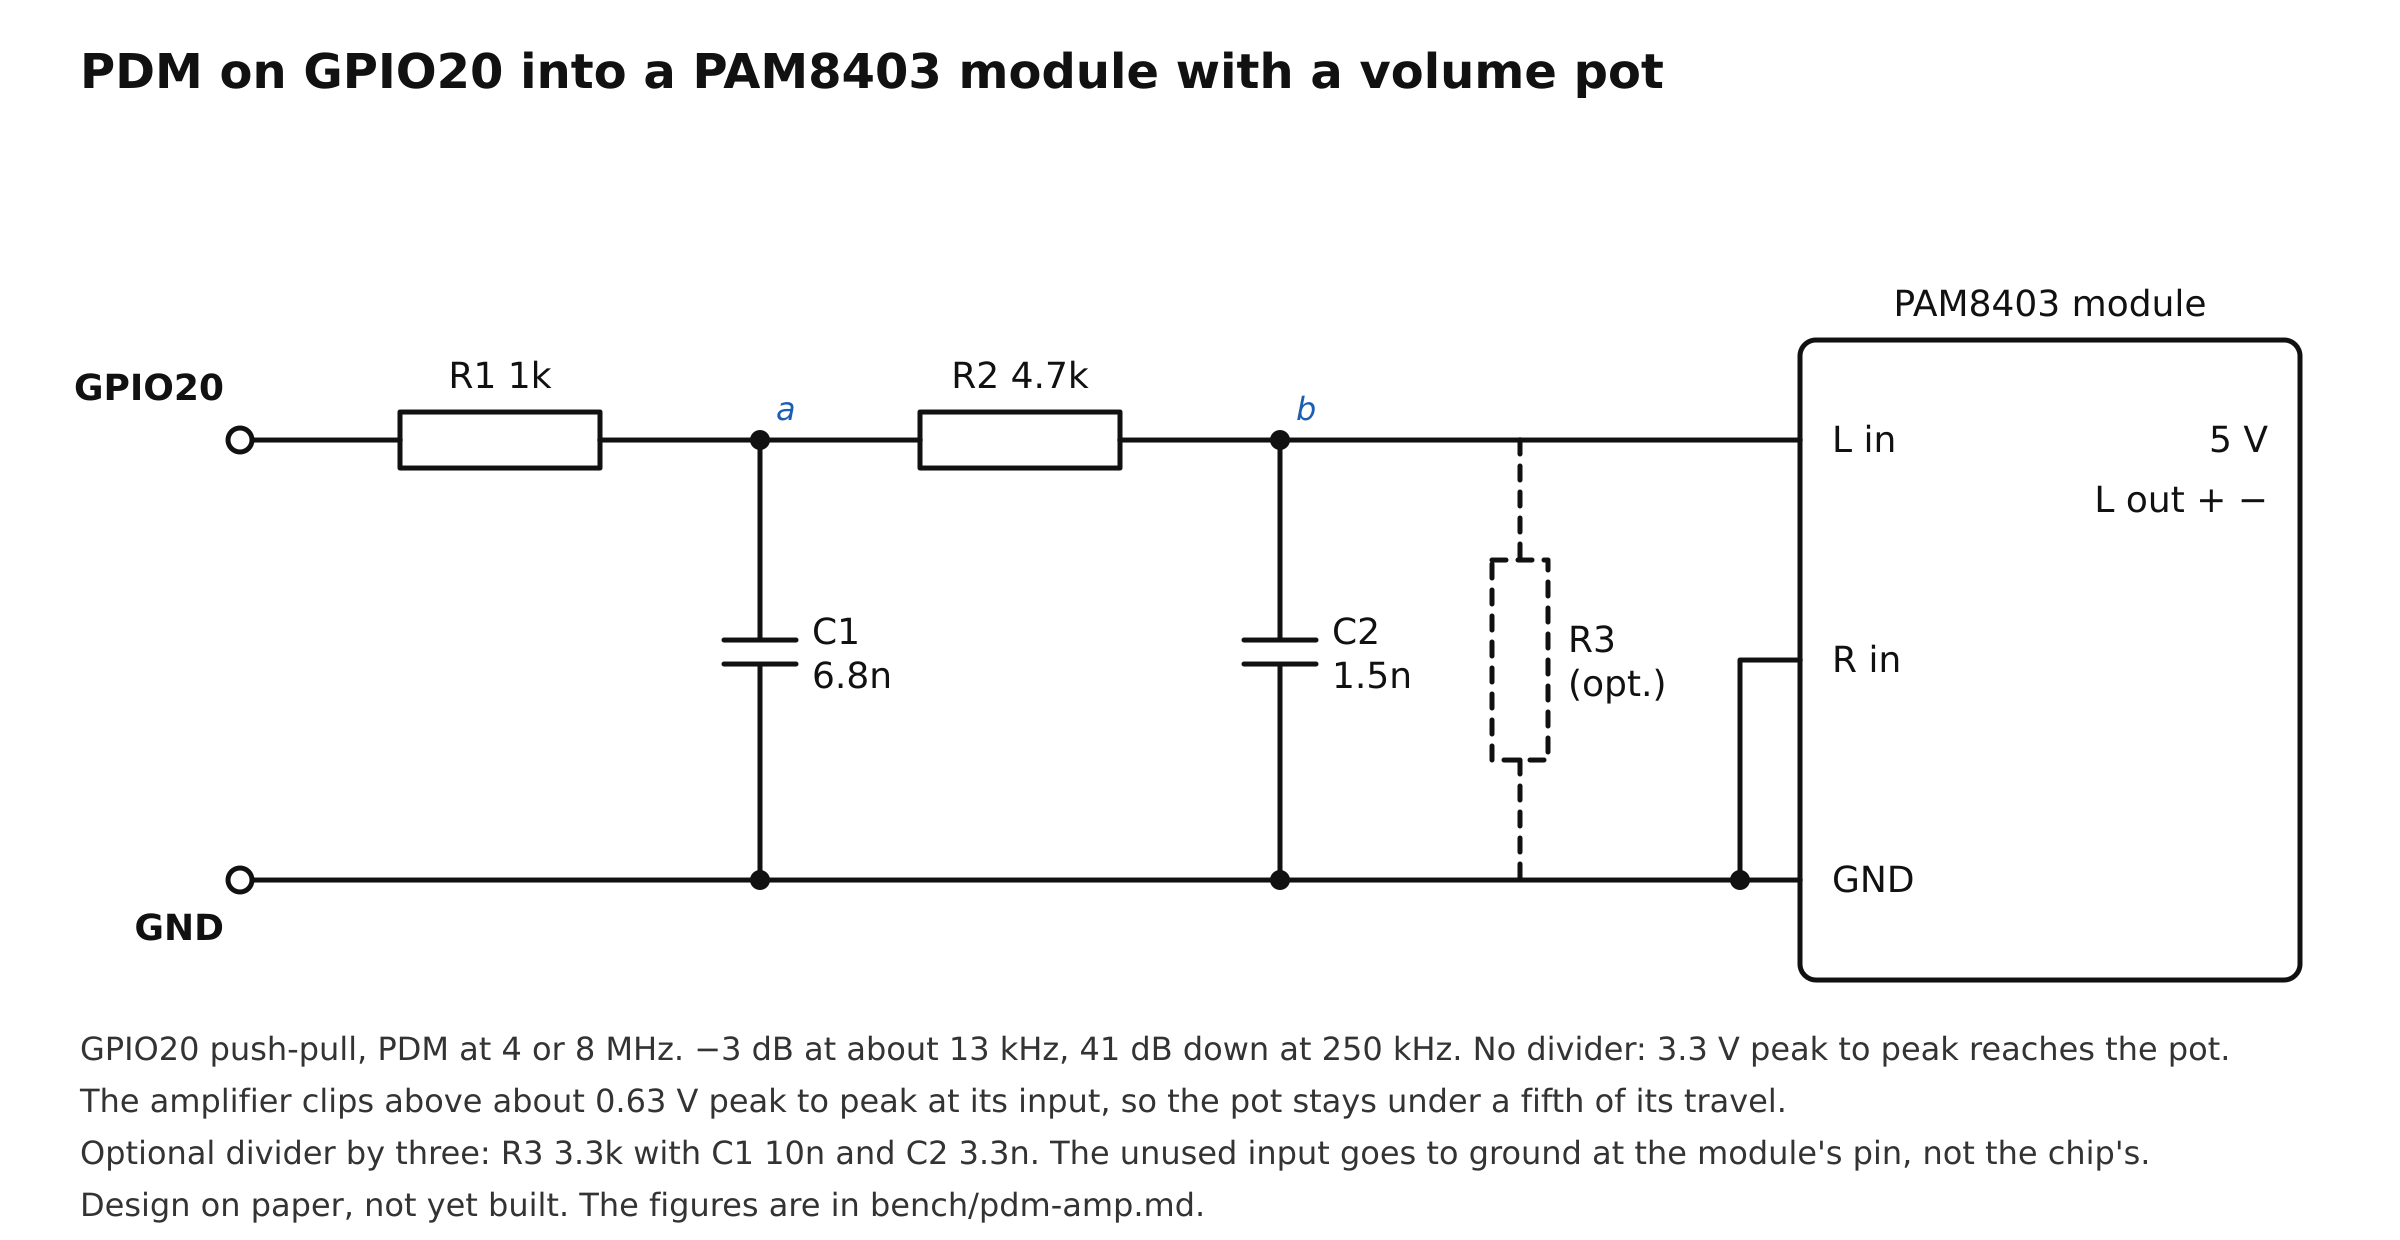
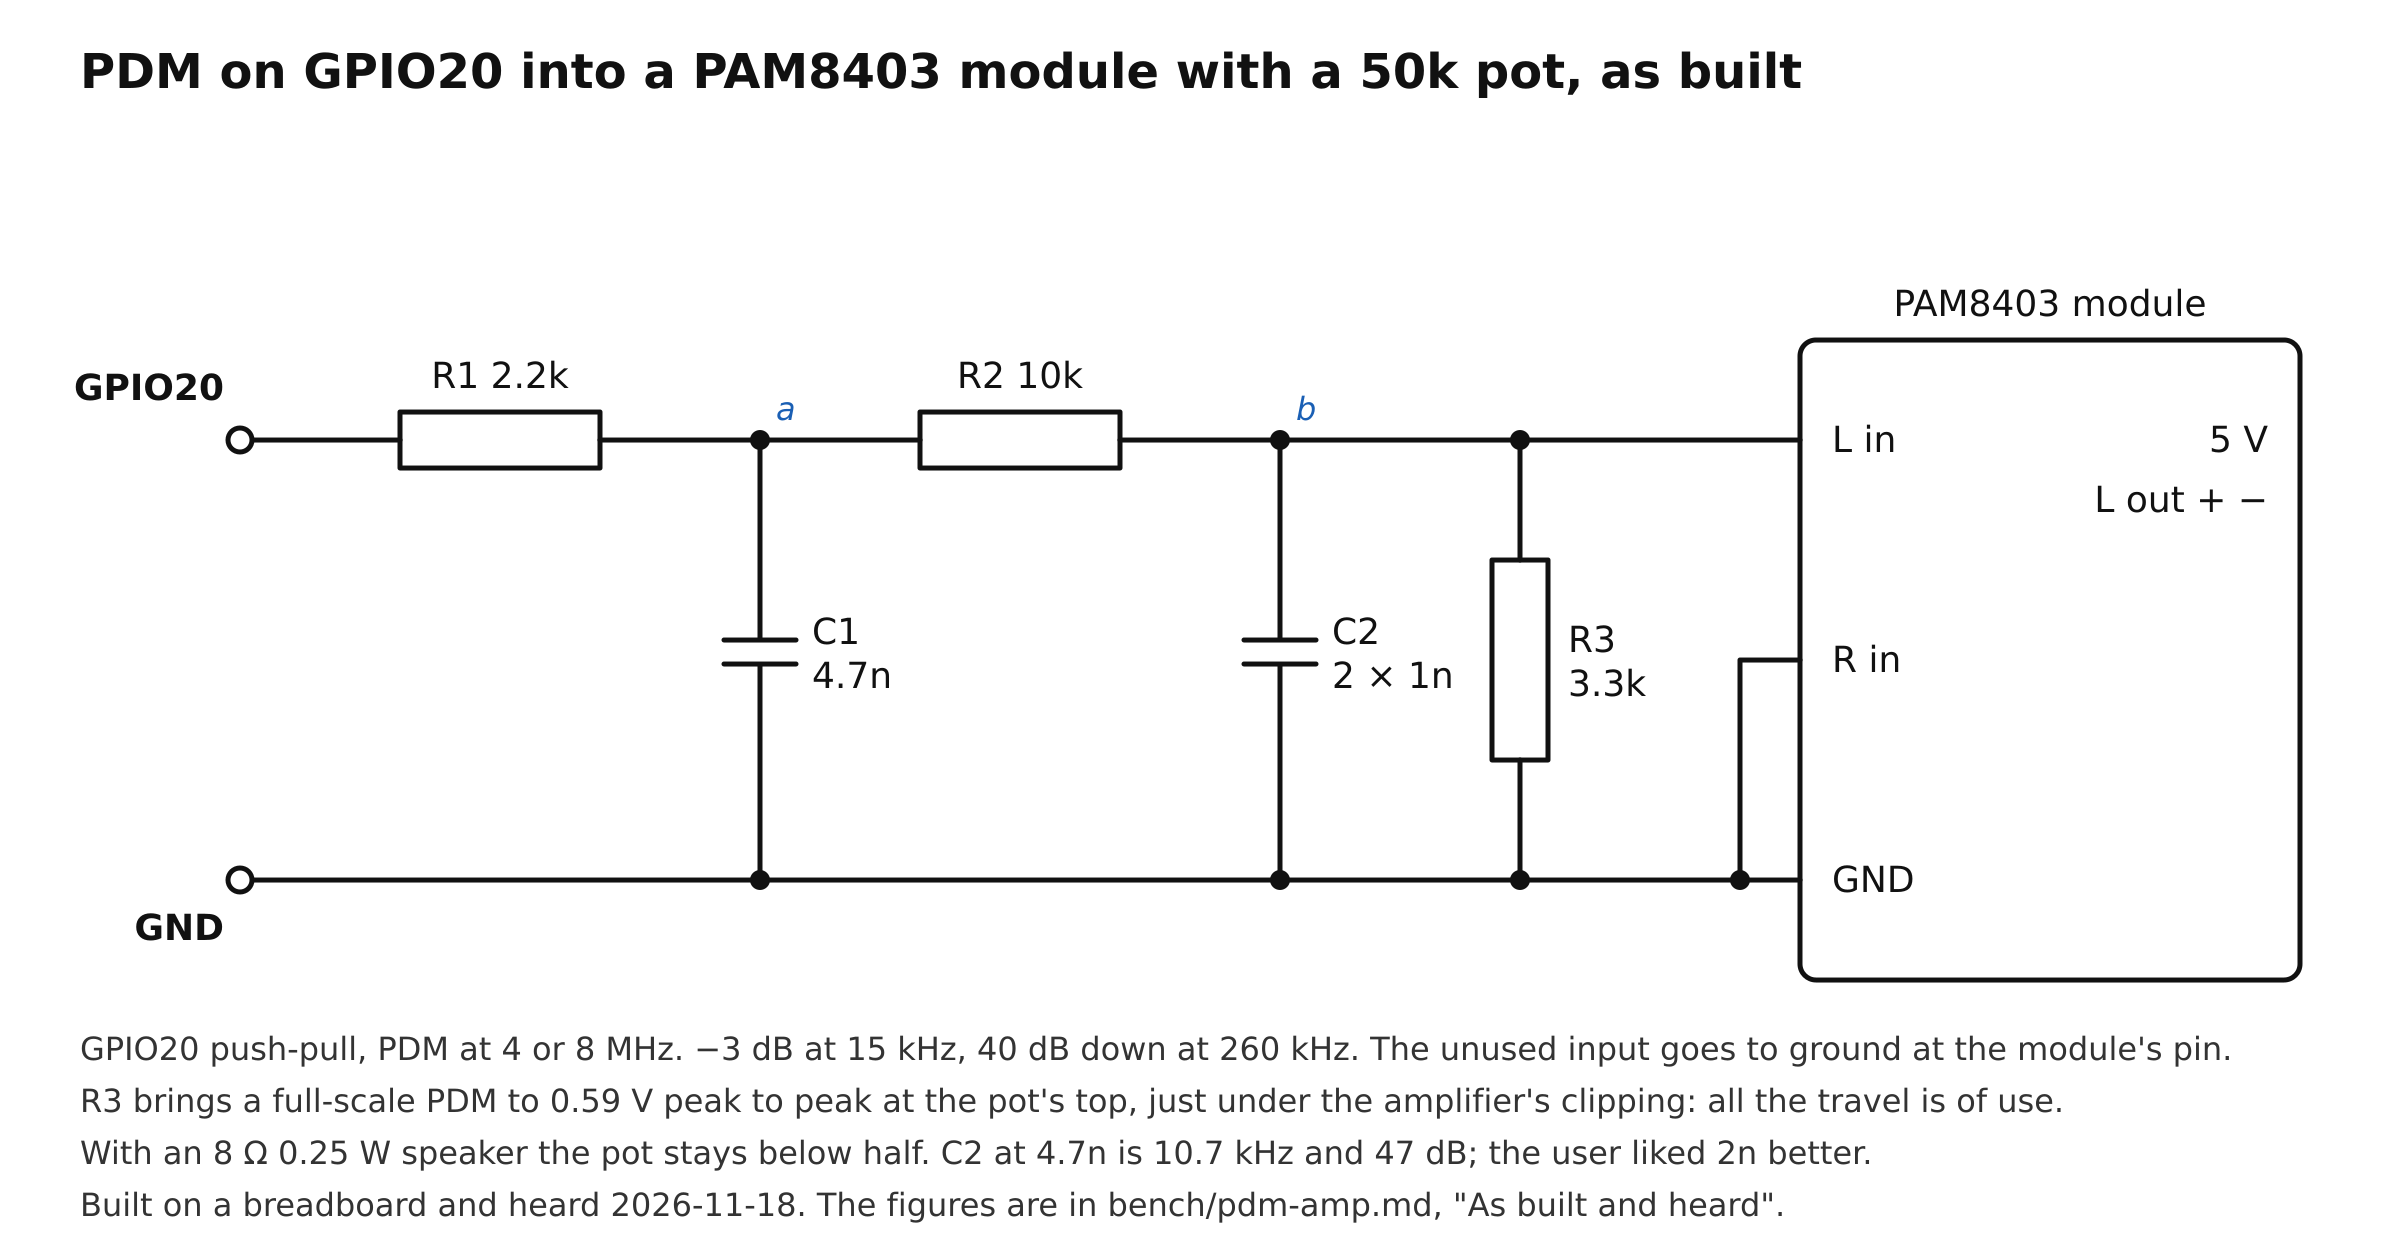
bench: the filter as built and heard on a PAM8403, its drawing with it
The CJMCU-832's filter into a PAM8403 module with a 50k pot, on a
breadboard: R3 kept, C2 at two 1 nF for a corner of 15 kHz, which the
user liked better than 4.7 nF. The drawing of the PAM8403's filter is
now this circuit; the one first worked out, without R3, was not built.

diff --git a/bench/pdm-amp.md b/bench/pdm-amp.md
@@ -1,7 +1,9 @@
 # A PDM output on GPIO20 into a class D amplifier module
 
-Design on paper, 2026-11-18. Nothing here is built or heard yet; when
-it is, this moves to where the speaker work is recorded.
+Design on paper, 2026-11-18. One of its filters was built and heard
+the same day, on a breadboard: "As built and heard" below. The rest
+is still paper; when the work is done this moves to where the speaker
+work is recorded.
 
 GPIO20 is push-pull at 3.3 V and carries the PDM stream at 4 or 8 MHz.
 A two-stage RC filter takes it to the input of a PAM8302A (the
@@ -121,6 +123,58 @@ divider that was not asked for, should the pot prove too touchy: R3
   behind its coupling capacitor, never at the chip's pin, which sits
   at VDD/2.
 - The outputs are bridged: neither speaker wire to ground.
+
+## As built and heard
+
+2026-11-18, on a breadboard with 10 cm jumper wires, test-clock, the
+`output` setting at `line`, an 8 Ω 0.25 W speaker of the kind the
+speaker mod has. The PAM8302s had not arrived, so the CJMCU-832's
+filter went into the PAM8403 module, whose pot is 50 kΩ, the unused
+input to ground:
+
+```
+GPIO20 ──R1 2k2──┬──R2 10k──┬──────┬── L in (the 50k pot)
+                 │          │      │
+              C1 4n7     C2 2n   R3 3k3
+                 │          │      │
+GND ─────────────┴──────────┴──────┴── GND
+```
+
+C2 is two 1 nF in parallel. R3 stays with this amplifier: it brings
+a full-scale PDM to the PAM8403's clipping threshold, so the whole of
+the pot's travel is of use, and without it C2 would see tens of kΩ
+and the corner would fall to 3 to 5 kHz.
+
+With the pot at its maximum, the amplifier's 18 kΩ across the wiper:
+
+| | C2 4.7n, as first built | C2 2n, as kept |
+| --- | --- | --- |
+| division | 0.178 | 0.178 |
+| at the input, full-scale PDM | 0.59 V peak to peak | the same |
+| −3 dB | 10.7 kHz | 15.1 kHz |
+| at 8 kHz | −1.8 dB | −1.0 dB |
+| at 15 kHz | −5.1 dB | −3.0 dB |
+| at 260 kHz | −47 dB | −40 dB |
+
+What the user heard:
+
+- Against the S8550's stage, the same clips, the output switched at
+  run time, the loudness matched with the pot: noticeably cleaner,
+  "as if the dynamic range it passes is wider".
+- C2 at 2 nF against 4.7 nF: liked better, more treble. The values
+  came from what was in the drawer (4.7 nF and 1 nF); a pair of
+  3.3 nF computes the same, 15.2 kHz and −41 dB.
+- A slight background noise, taken for pickup on the jumper wires
+  and not traced.
+- On a scope at the filter's output, before the amplifier went on:
+  the clips an audio wave, the beeps a square wave.
+
+The speaker is 0.25 W, ±2 V across it, and the amplifier gives five
+times that power at the top of the pot: the pot stays below half.
+
+`pdm-pam8403.svg` is this circuit. The filter first worked out for
+the module, without R3, is "Filter for the PAM8403 module" above and
+was not built.
 
 ## How the figures were reached
 
